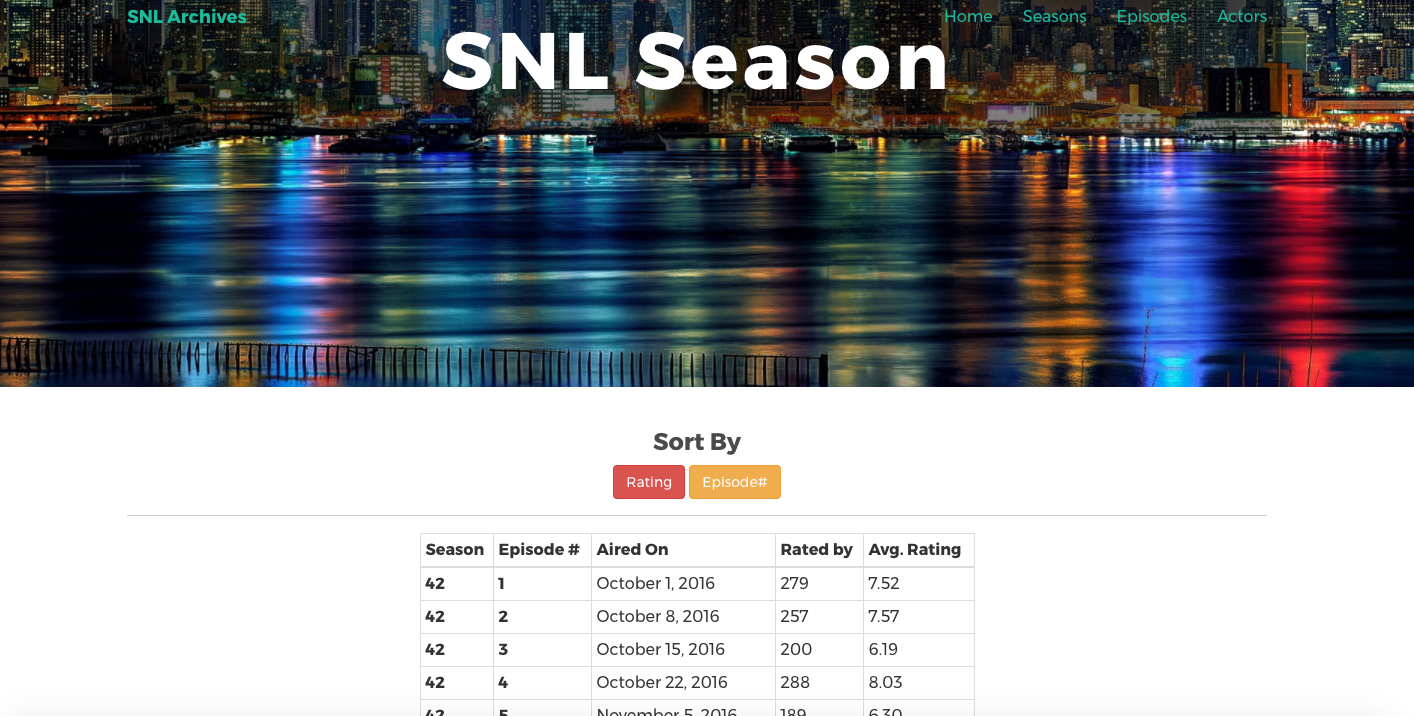
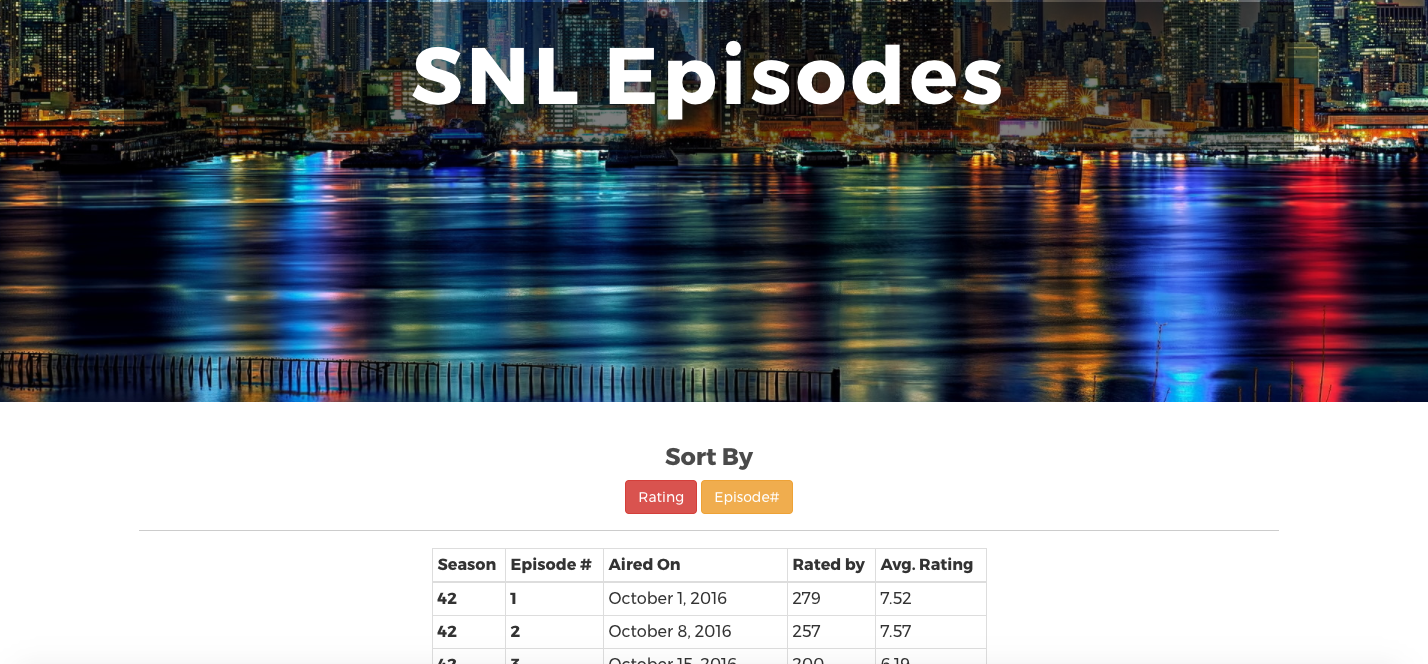
ratings sorting

diff --git a/snl/website/templates/website/episodes.html b/snl/website/templates/website/episodes.html
@@ -1,9 +1,10 @@
 {% extends 'website/base.html' %}
 {% block extrahead %}
+<link href="http://netdna.bootstrapcdn.com/bootstrap/3.3.6/css/bootstrap.css" rel="stylesheet">
 {% endblock %}
 
 {% block workwrap %}
-	<h1>SNL Season {{ sid }}</h1>
+	<h1>SNL Episodes</h1>
 {% endblock %}
 
 {% block content %}
@@ -15,20 +16,56 @@
 		<a href='/episodes_ratings/' class="btn btn-danger">Rating</a>
 		<a href='/episodes/' class="btn btn-warning">Episode#</a>
 		</center>
+    <br/>
+        <div class="row">    
+      <!-- <h2 style='color:black'>Search Bar</h2> -->
+        <div class="col-xs-8 col-xs-offset-2">
+        View by Min. Ratings by a certain group of people
+        <form id='form_id' method='POST' action='/episodes/'>
+        {% csrf_token %}
+        <div class="input-group">
+                 <p> Overall rating: <input type="number" class="form-control" name="overall" data-min="0" data-max="10" value=0></p><hr/>
+                  <p>18-29<input type="number" class="form-control" name="age18_29" min="0" max="10" value=0></p><hr/>
+                  <p>30-44<input type="number" class="form-control" name="age30_44" data-min="0" data-max="10" value=0></p><hr/>
+                  <p>45+<input type="number" class="form-control" name="age45p" data-min="0" data-max="10" value=0></p><hr/>
+                  <p>18-<input type="number" class="form-control" name="age18m" data-min="0" data-max="10" value=0></p><hr/>
+                  <p>us voters<input type="number" class="form-control" name="us" data-min="0" data-max="10" value=0></p><hr/>
+                  <p>non-us voters<input type="number" class="form-control" name="non_us" data-min="0" data-max="10" value=0></p><hr/>
+
+                   
+                  <button id='form_submit' class="btn btn-default" type="button"><span class="glyphicon glyphicon-search"></span></button>
+                
+            </div>
+            <br/>
+          <!--   <p style='color:white;'>
+              <input type="radio" name="search_for" value="episodes" checked> Search Episodes
+        <input type="radio" name="search_for" value="titles"> Search Titles
+        <input type="radio" name="search_for" value="actors"> Search Actors
+      </p> -->
+            </form>
+        </div>
+  </div>
+
 	<!-- </div> -->
 </div>
 <hr/>
 <div class='row'>
-	<div class='col-md-offset-3 col-md-6'>
+	<div class='col-md-offset-2 col-md-8'>
 
 <table class="table-bordered table-condensed table table-hover">
   <thead>
     <tr>
-    	<th>Season</th>
+    <th>Season</th>
 		<th>Episode #</th>
 		<th>Aired On</th>
 		<th>Rated by</th>
 		<th>Avg. Rating</th>
+    <th>18-29</th>
+    <th>30-44</th>
+    <th>45+</th>
+    <th>18-</th>
+    <th>us</th>
+    <th>non-us</th>
     </tr>
   </thead>
   
@@ -40,6 +77,12 @@
       <td>{{ episode.2 }}</td>
       <td>{{ episode.3 }}</td>
       <td>{{ episode.4 }}</td>
+      <td>{{ episode.5 }}</td>
+      <td>{{ episode.6 }}</td>
+      <td>{{ episode.7 }}</td>
+      <td>{{ episode.8 }}</td>
+      <td>{{ episode.9 }}</td>
+      <td>{{ episode.10 }}</td>
     </tr>
     
   {% endfor %}
@@ -47,4 +90,26 @@
 </table>
 </div>
 </div>
+{% endblock %}
+
+
+
+{% block extrajs %}
+  <script type="text/javascript">
+    $(document).ready(function(e){
+        $('.search-panel .dropdown-menu').find('a').click(function(e) {
+        e.preventDefault();
+        var param = $(this).attr("href").replace("#","");
+        var concept = $(this).text();
+        $('.search-panel span#search_concept').text(concept);
+        $('.input-group #search_param').val(param);
+      });
+
+      var form = document.getElementById("form_id");
+      document.getElementById("form_submit").addEventListener("click", function () {
+        form.submit();
+      });
+
+    });
+  </script>
 {% endblock %}

diff --git a/snl/website/views.py b/snl/website/views.py
@@ -41,12 +41,66 @@ def season(request,sid):
 
 # Display all episodes sorted in some order
 def all_episodes(request):
-	cursor = connection.cursor()
-	cursor.execute('SELECT e.sid,e.eid,e.aired,(one+two+three+four+five+six+seven+eight+nine+ten) AS votes, round((one*1+two*2+three*3+four*4+five*5+six*6+seven*7+eight*8+nine*9+ten*10)::decimal/(one+two+three+four+five+six+seven+eight+nine+ten)::decimal,2) as avg_rating \
-		 FROM episode AS e, rating AS r WHERE r.sid = e.sid AND r.eid = e.eid ORDER BY sid DESC,eid')
-	episodes = cursor.fetchall()
+	episodes = []
+	header_msg = 'none'
+	if request.method == 'POST':
+		overall = int(request.POST.get('overall','0'))
+		age18_29 = int(request.POST.get('age18_29','0'))
+		age30_44 = int(request.POST.get('age30_44','0'))
+		age45p = int(request.POST.get('age45p','0'))
+		age18m = int(request.POST.get('age18m','0'))
+		us = int(request.POST.get('us','0'))
+		non_us = int(request.POST.get('non_us','0'))
+
+		
+		if overall > 10 or age18m > 10 or age18_29>10 or age30_44>10 or age45p>10 or us>10 or non_us>10:
+			header_msg = "ratings greater than 10 not allowed"
+			return render(request,'website/episodes.html',{'episodes':episodes,'header':header_msg})
+
+		q1 = 'SELECT * FROM tmp WHERE true' 
+		#avg_rating>%s AND age18_29_avg>%s AND age30_44_avg>%s AND age18m_avg>%s AND age45p_avg>%s AND us_avg>%s AND non_us_avg>%s \
+		q2 = ' ORDER BY sid DESC,eid'
+		if overall>0:
+			q1 += ' AND avg_rating>'+str(overall)
+		if age18_29>0:
+			q1 += ' AND age18_29_avg>'+str(age18_29)
+		if age30_44>0:
+			q1 += ' AND age30_44_avg>'+str(age30_44)
+		if age45p>0:
+			q1 += ' AND age45p_avg>'+str(age45p)
+		if age18m>0:
+			q1 += ' AND age18m_avg>'+str(age18m)
+		if us>0:
+			q1 += ' AND us_avg>'+str(us)
+		if non_us>0:
+			q1 += ' AND non_us_avg>'+str(non_us)
+		q1 += q2
+		print(q1)
+		cursor = connection.cursor()
+		cursor.execute('CREATE VIEW tmp AS SELECT e.sid,e.eid,e.aired,(one+two+three+four+five+six+seven+eight+nine+ten) AS votes, round((one*1+two*2+three*3+four*4+five*5+six*6+seven*7+eight*8+nine*9+ten*10)::decimal/(one+two+three+four+five+six+seven+eight+nine+ten)::decimal,2) as avg_rating, \
+				age18_29_avg,age30_44_avg,age45p_avg,age18m_avg,us_avg,non_us_avg\
+				 FROM episode AS e, rating AS r WHERE r.sid = e.sid AND r.eid = e.eid ORDER BY sid DESC,eid')
+		# cursor.execute('SELECT * FROM tmp WHERE avg_rating>%s AND age18_29_avg>%s AND age30_44_avg>%s AND age18m_avg>%s AND age45p_avg>%s AND us_avg>%s AND non_us_avg>%s \
+				 # ORDER BY sid DESC,eid',[overall,age18_29,age30_44,age45p,age45p,us,non_us])
+		cursor.execute(q1)
+
+		# cursor.execute('SELECT e.sid,e.eid,e.aired,(one+two+three+four+five+six+seven+eight+nine+ten) AS votes, round((one*1+two*2+three*3+four*4+five*5+six*6+seven*7+eight*8+nine*9+ten*10)::decimal/(one+two+three+four+five+six+seven+eight+nine+ten)::decimal,2) as avg_rating, \
+		# 		age18_29_avg,age30_44_avg,age45p_avg,age18m_avg,us_avg,non_us_avg\
+		# 		 FROM episode AS e, rating AS r WHERE r.sid = e.sid AND r.eid = e.eid \
+		# 		 avg_rating>%s AND age18_29_avg>%s AND age30_44_avg>%s AND age18m_avg>%s AND age45p_avg>%s AND us_avg>%s AND non_us_avg>%s \
+		# 		 ORDER BY sid DESC,eid',[overall,age18_29,age30_44,age45p,age45p,us,non_us])
+		episodes = cursor.fetchall()
+		cursor.execute('DROP VIEW tmp')
+
+	else:
+		cursor = connection.cursor()
+		cursor.execute('SELECT e.sid,e.eid,e.aired,(one+two+three+four+five+six+seven+eight+nine+ten) AS votes, round((one*1+two*2+three*3+four*4+five*5+six*6+seven*7+eight*8+nine*9+ten*10)::decimal/(one+two+three+four+five+six+seven+eight+nine+ten)::decimal,2) as avg_rating, \
+				age18_29_avg,age30_44_avg,age45p_avg,age18m_avg,us_avg,non_us_avg\
+				 FROM episode AS e, rating AS r WHERE r.sid = e.sid AND r.eid = e.eid ORDER BY sid DESC,eid')
+		episodes = cursor.fetchall()
 	# print(episodes)
-	return render(request,'website/episodes.html',{'episodes':episodes})
+	
+	return render(request,'website/episodes.html',{'episodes':episodes,'header':header_msg})
 
 # Display all episodes sorted in some order
 def all_episodes_ratings(request):
